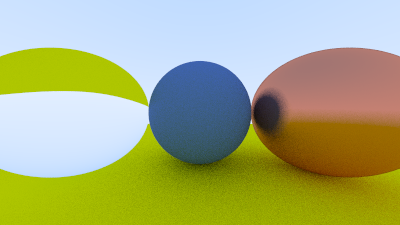
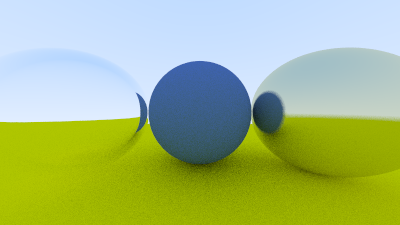
more refraction stuff

diff --git a/material.hpp b/material.hpp
@@ -71,9 +71,16 @@ public:
 		double ri = rec.front_face ? 1.0 / refraction_index : refraction_index;
 
 		Vec3 unit_direction = unit_vector(r_in.direction());
-		Vec3 refracted = refract(unit_direction, rec.normal, ri);
 
-		scattered = Ray(rec.p, refracted);
+
+		double cos_theta = std::fmin(dot(-unit_direction, rec.normal), 1.0);
+		double sin_theta = std::sqrt(1.0 - cos_theta * cos_theta);
+
+		bool cannot_refract = ri * sin_theta > 1.0;
+
+		Vec3 direction = cannot_refract ? reflect(unit_direction, rec.normal) : refract(unit_direction, rec.normal, ri);
+
+		scattered = Ray(rec.p, direction);
 
 		return true;
 	}

diff --git a/main.cpp b/main.cpp
@@ -13,8 +13,8 @@ int main()
 
 	auto material_ground = make_shared<Lambertian>(Color(0.8, 0.8, 0.0));
 	auto material_center = make_shared<Lambertian>(Color(0.1, 0.2, 0.5));
-	auto material_left = make_shared<Dielectric>(1.50);
-	auto material_right = make_shared<Metal>(Color(0.8, 0.3, 0.2), 0.3);
+	auto material_left = make_shared<Dielectric>(0.85);
+	auto material_right = make_shared<Metal>(Color(0.8, 0.8, 0.6), 0.1);
 
 	world.add(make_shared<Sphere>(Point3(0.0, -100.5, -1.0), 100.0, material_ground));
 	world.add(make_shared<Sphere>(Point3(0.0, 0.0, -1.2), 0.5, material_center));
